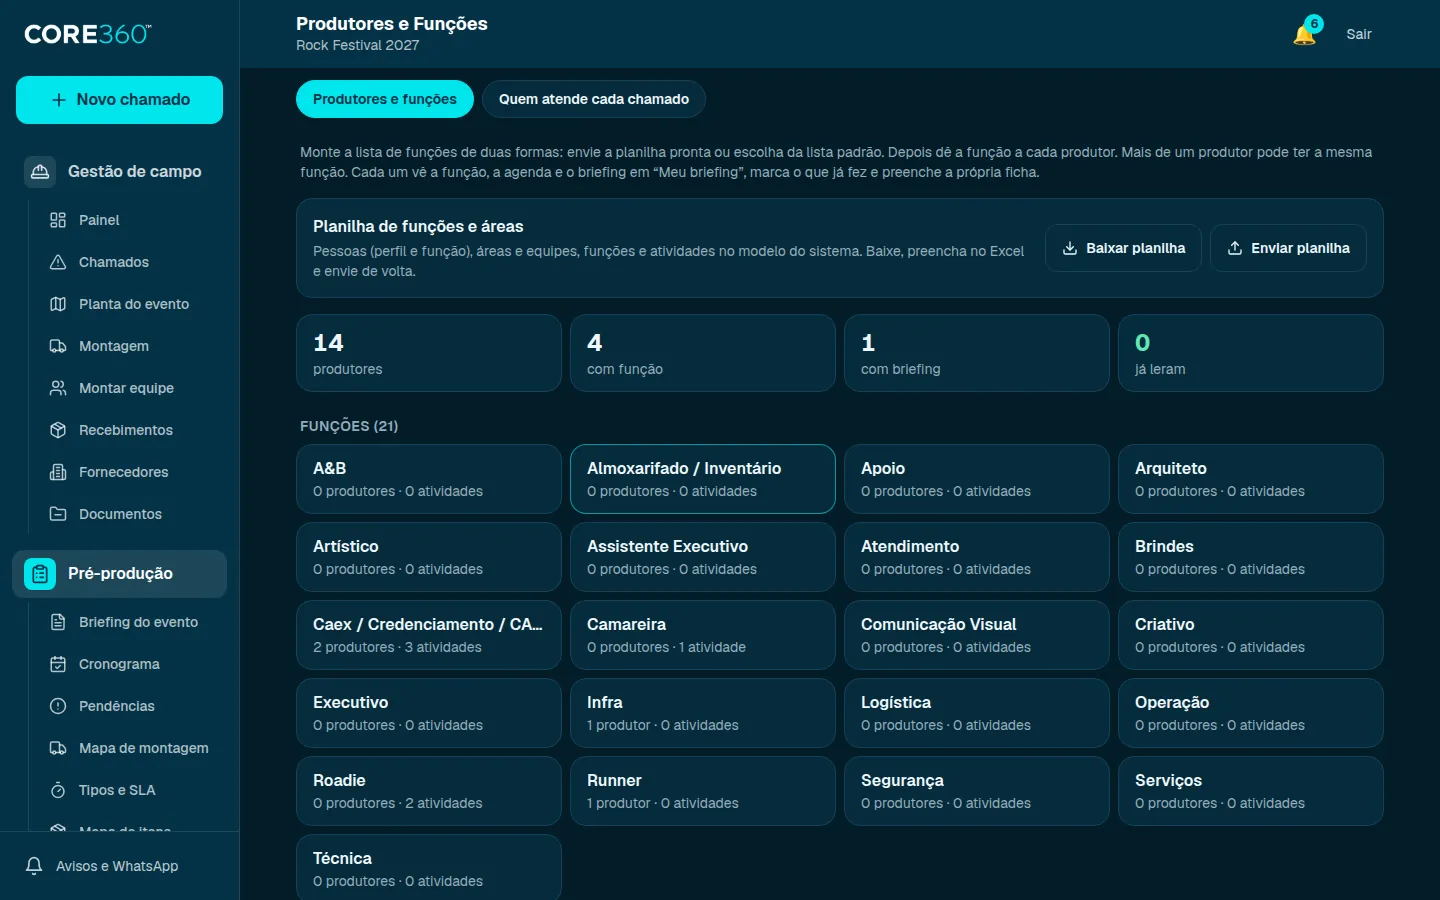
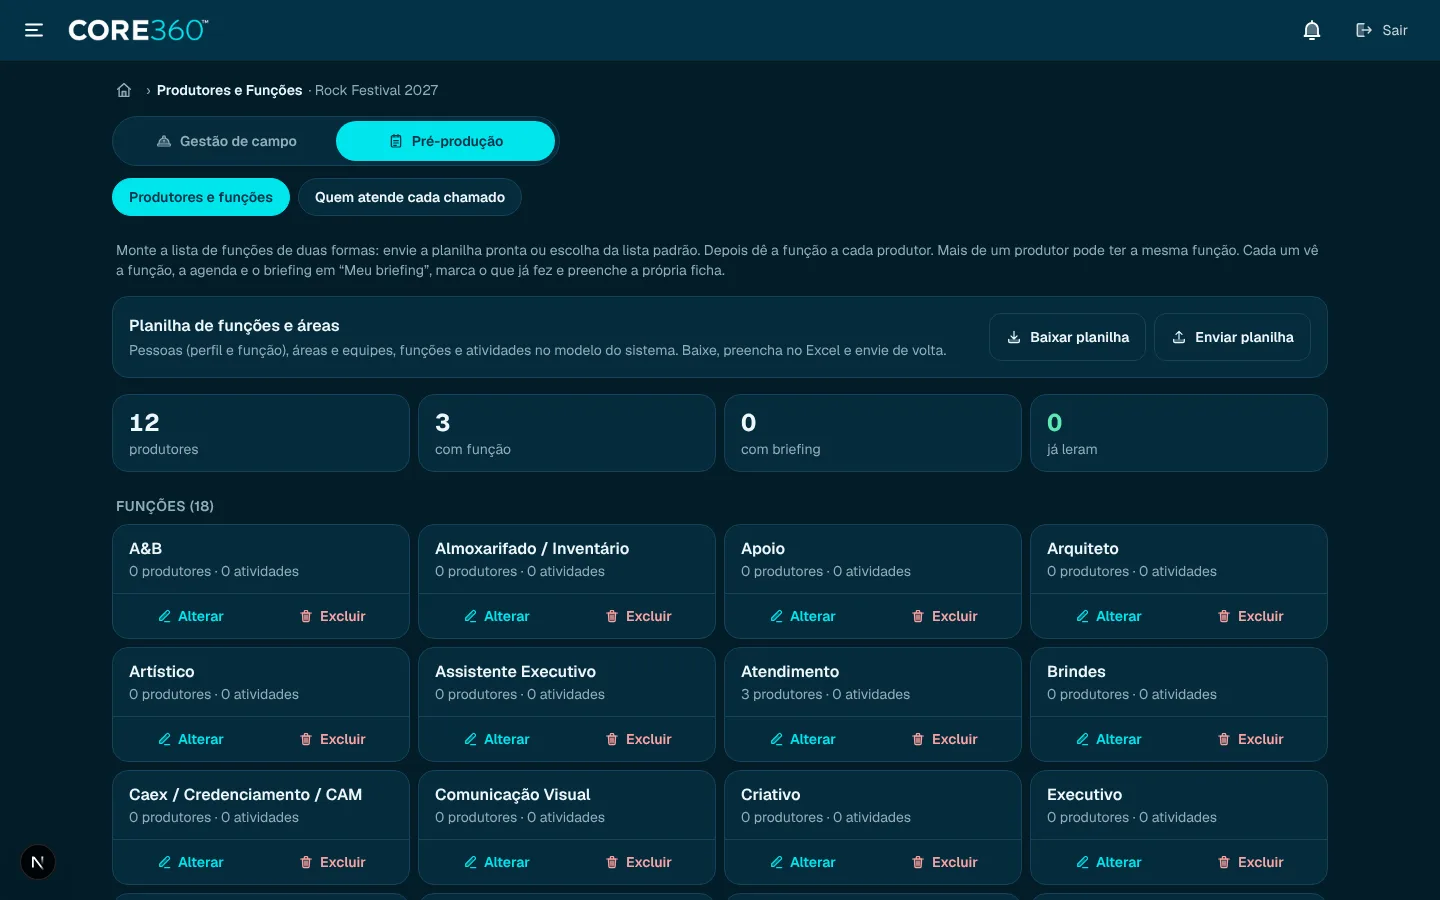
Produtores e Funções: diretor altera e exclui função direto no painel
Cada cartão de função ganha Alterar (nome e descrição) e Excluir, só para o
diretor de produção. Excluir confirma antes quantos produtores ficam sem
função e quantas atividades são apagadas. Mudar o nome e excluir passam a
ser só do diretor também no banco (trigger e RLS). Site: novo passo e foto.

Claude-Session: https://claude.ai/code/session_019hKBDssvruSjrLdd2Aqtom

diff --git a/src/app/(app)/eventos/[eventId]/pre-producao/funcoes/forms.tsx b/src/app/(app)/eventos/[eventId]/pre-producao/funcoes/forms.tsx
@@ -5,6 +5,7 @@ import { useRouter } from "next/navigation";
 import { Button, Card, cx } from "@/components/ui";
 import { FormError, Input, Label, Textarea } from "@/components/field";
 import { api } from "@/components/api-client";
+import { Icon } from "@/components/icons";
 
 function useAction() {
   const router = useRouter();
@@ -145,8 +146,116 @@ export function FunctionSelect({
   );
 }
 
-/** Nome e descrição da função, e apagar. */
-export function FunctionEditor({ fn, back }: { fn: { id: string; name: string; description: string | null }; back: string }) {
+function Dialog({ label, onClose, children }: { label: string; onClose: () => void; children: React.ReactNode }) {
+  return (
+    <div
+      className="fixed inset-0 z-40 flex items-end justify-center bg-black/60 p-4 sm:items-center"
+      role="dialog"
+      aria-modal
+      aria-label={label}
+      onClick={(e) => e.target === e.currentTarget && onClose()}
+      onKeyDown={(e) => e.key === "Escape" && onClose()}
+    >
+      <Card className="w-full max-w-lg">{children}</Card>
+    </div>
+  );
+}
+
+type PanelFunction = { id: string; name: string; description: string | null; peopleCount: number; activityCount: number };
+
+const plural = (n: number, one: string, many: string) => `${n} ${n === 1 ? one : many}`;
+
+/**
+ * Botões do diretor de produção em cada função do painel: alterar (nome e
+ * descrição) e excluir. Excluir apaga as atividades da função e deixa sem
+ * função quem tinha; a confirmação diz quantos são antes.
+ */
+export function FunctionActions({ fn }: { fn: PanelFunction }) {
+  const { busy, error, run } = useAction();
+  const [open, setOpen] = useState<"edit" | "delete" | null>(null);
+  const close = () => !busy && setOpen(null);
+  const small = "inline-flex min-h-9 items-center justify-center gap-1.5 rounded-lg px-1 text-sm font-semibold transition hover:bg-white/5";
+
+  return (
+    <>
+      <div className="grid grid-cols-2 gap-1">
+        <button type="button" className={cx(small, "text-primary")} onClick={() => setOpen("edit")} aria-label={`Alterar a função ${fn.name}`}>
+          <Icon name="edit" className="h-4 w-4" /> Alterar
+        </button>
+        <button type="button" className={cx(small, "text-red-300")} onClick={() => setOpen("delete")} aria-label={`Excluir a função ${fn.name}`}>
+          <Icon name="trash" className="h-4 w-4" /> Excluir
+        </button>
+      </div>
+
+      {open === "edit" && (
+        <Dialog label={`Alterar a função ${fn.name}`} onClose={close}>
+          <form
+            className="space-y-3"
+            onSubmit={async (e) => {
+              e.preventDefault();
+              const f = new FormData(e.currentTarget);
+              const ok = await run(() =>
+                api(`/api/functions/${fn.id}`, { method: "PATCH", body: { name: String(f.get("name") ?? ""), description: String(f.get("description") ?? "") } }),
+              );
+              if (ok) setOpen(null);
+            }}
+          >
+            <p className="font-semibold">Alterar função</p>
+            <label className="block">
+              <Label>Nome da função</Label>
+              <Input name="name" required maxLength={80} defaultValue={fn.name} autoFocus />
+            </label>
+            <label className="block">
+              <Label hint="(aparece para quem tem a função)">O que essa função faz</Label>
+              <Textarea name="description" maxLength={2000} defaultValue={fn.description ?? ""} />
+            </label>
+            {fn.peopleCount > 0 && (
+              <p className="text-sm text-muted">{plural(fn.peopleCount, "produtor continua", "produtores continuam")} com a função, já com o nome novo.</p>
+            )}
+            <FormError message={error} />
+            <div className="flex gap-2">
+              <Button type="submit" disabled={busy}>{busy ? "Salvando…" : "Salvar"}</Button>
+              <Button type="button" variant="secondary" disabled={busy} onClick={close}>Cancelar</Button>
+            </div>
+          </form>
+        </Dialog>
+      )}
+
+      {open === "delete" && (
+        <Dialog label={`Excluir a função ${fn.name}`} onClose={close}>
+          <div className="space-y-3">
+            <p className="font-semibold">Excluir a função &ldquo;{fn.name}&rdquo;?</p>
+            {fn.peopleCount + fn.activityCount === 0 ? (
+              <p className="text-sm text-muted">Ninguém tem esta função e ela não tem atividades.</p>
+            ) : (
+              <ul className="list-disc space-y-1 pl-5 text-sm text-amber-200">
+                {fn.peopleCount > 0 && <li>{plural(fn.peopleCount, "produtor fica", "produtores ficam")} sem função. Dá para escolher outra depois, no painel.</li>}
+                {fn.activityCount > 0 && <li>{plural(fn.activityCount, "atividade da função é apagada", "atividades da função são apagadas")}.</li>}
+              </ul>
+            )}
+            <p className="text-sm text-muted">Não dá para desfazer. Se for só trocar o nome, use Alterar.</p>
+            <FormError message={error} />
+            <div className="flex gap-2">
+              <Button
+                className="bg-red-500 text-white hover:bg-red-400"
+                disabled={busy}
+                onClick={async () => {
+                  if (await run(() => api(`/api/functions/${fn.id}`, { method: "DELETE" }))) setOpen(null);
+                }}
+              >
+                {busy ? "Excluindo…" : "Excluir função"}
+              </Button>
+              <Button type="button" variant="secondary" disabled={busy} onClick={close}>Cancelar</Button>
+            </div>
+          </div>
+        </Dialog>
+      )}
+    </>
+  );
+}
+
+/** Nome e descrição da função; mudar o nome e apagar é só do diretor de produção. */
+export function FunctionEditor({ fn, back, director }: { fn: { id: string; name: string; description: string | null }; back: string; director: boolean }) {
   const { busy, error, run, router } = useAction();
   const [saved, setSaved] = useState(false);
   return (
@@ -156,15 +265,14 @@ export function FunctionEditor({ fn, back }: { fn: { id: string; name: string; d
         e.preventDefault();
         const f = new FormData(e.currentTarget);
         setSaved(false);
-        const ok = await run(() =>
-          api(`/api/functions/${fn.id}`, { method: "PATCH", body: { name: String(f.get("name") ?? ""), description: String(f.get("description") ?? "") } }),
-        );
+        const body = { description: String(f.get("description") ?? ""), ...(director ? { name: String(f.get("name") ?? "") } : {}) };
+        const ok = await run(() => api(`/api/functions/${fn.id}`, { method: "PATCH", body }));
         setSaved(ok);
       }}
     >
       <label className="block">
-        <Label>Nome da função</Label>
-        <Input name="name" required maxLength={80} defaultValue={fn.name} />
+        <Label hint={director ? undefined : "(só o diretor de produção muda)"}>Nome da função</Label>
+        <Input name="name" required maxLength={80} defaultValue={fn.name} disabled={!director} />
       </label>
       <label className="block">
         <Label hint="(aparece para quem tem a função)">O que essa função faz</Label>
@@ -174,19 +282,19 @@ export function FunctionEditor({ fn, back }: { fn: { id: string; name: string; d
       {saved && <p className="text-sm text-emerald-300">Salvo.</p>}
       <div className="flex flex-wrap gap-2">
         <Button type="submit" disabled={busy}>{busy ? "Salvando…" : "Salvar"}</Button>
-        <Button
+        {director && <Button
           type="button"
           variant="secondary"
           className="text-red-300"
           disabled={busy}
           onClick={async () => {
-            if (!confirm(`Apagar a função “${fn.name}” e as atividades dela? Quem tinha essa função fica sem função.`)) return;
+            if (!confirm(`Excluir a função “${fn.name}” e as atividades dela? Quem tinha essa função fica sem função.`)) return;
             const ok = await run(() => api(`/api/functions/${fn.id}`, { method: "DELETE" }));
             if (ok) router.push(back);
           }}
         >
-          Apagar função
-        </Button>
+          Excluir função
+        </Button>}
       </div>
     </form>
   );

diff --git a/src/app/(app)/eventos/[eventId]/pre-producao/funcoes/page.tsx b/src/app/(app)/eventos/[eventId]/pre-producao/funcoes/page.tsx
@@ -9,7 +9,7 @@ import { EventTabs } from "@/components/event-nav";
 import { BriefingPill } from "@/components/briefing-view";
 import { Card, EmptyState, PAGE, SectionTitle, cx } from "@/components/ui";
 import { ROLE_LABEL } from "@/lib/format";
-import { DefaultsPicker, FunctionSelect, NewFunctionForm } from "./forms";
+import { DefaultsPicker, FunctionActions, FunctionSelect, NewFunctionForm } from "./forms";
 import { SheetPanel } from "./sheet";
 import { ProducersTabs } from "./tabs";
 
@@ -86,16 +86,16 @@ export default async function FunctionsPanelPage({ params }: PageProps<"/eventos
         ) : (
           <div className="grid grid-cols-2 gap-2 lg:grid-cols-4">
             {panel.functions.map((f) => (
-              <Link
-                key={f.id}
-                href={`${base}/funcoes/${f.id}`}
-                className="block rounded-2xl border border-border bg-surface px-4 py-3 transition hover:border-primary/60 active:scale-[0.99]"
-              >
-                <p className="truncate font-semibold">{f.name}</p>
-                <p className="text-sm text-muted">
-                  {f.peopleCount} {f.peopleCount === 1 ? "produtor" : "produtores"} · {f.activityCount} {f.activityCount === 1 ? "atividade" : "atividades"}
-                </p>
-              </Link>
+              <div key={f.id} className="flex flex-col rounded-2xl border border-border bg-surface transition hover:border-primary/60">
+                <Link href={`${base}/funcoes/${f.id}`} className="block flex-1 px-4 py-3 active:scale-[0.99]">
+                  <p className="truncate font-semibold">{f.name}</p>
+                  <p className="text-sm text-muted">
+                    {f.peopleCount} {f.peopleCount === 1 ? "produtor" : "produtores"} · {f.activityCount} {f.activityCount === 1 ? "atividade" : "atividades"}
+                  </p>
+                </Link>
+                {/* Diretor de produção: alterar e excluir direto no painel. */}
+                {director && <div className="border-t border-border px-2 py-1"><FunctionActions fn={f} /></div>}
+              </div>
             ))}
           </div>
         )}

diff --git a/src/modules/functions/functions.service.ts b/src/modules/functions/functions.service.ts
@@ -38,6 +38,11 @@ function requireCustomFunction(actor: Actor, eventId: string, name: string | und
   }
 }
 
+/** Mudar o nome ou excluir uma função: só o diretor de produção (a RLS confere de novo). */
+function requireDirector(actor: Actor, eventId: string, what: string) {
+  if (!canReviewSla(actor, eventId)) throw new ForbiddenError(`Só o diretor de produção ${what}.`);
+}
+
 const FIELD_ROLES = ["GERENTE", "HEAD", "OPERACIONAL"] as const;
 const PROFILE_FIELDS = ["document", "uniformSize", "dietary", "emergencyName", "emergencyPhone"] as const;
 
@@ -242,7 +247,7 @@ export async function getFunction(actor: Actor, functionId: string) {
 export async function updateFunction(actor: Actor, functionId: string, input: unknown) {
   const f = await loadFunction(actor, functionId);
   const data = parse(functionSchema.partial(), input);
-  if (data.name !== undefined && data.name !== f.name) requireCustomFunction(actor, f.eventId, data.name);
+  if (data.name !== undefined && data.name !== f.name) requireDirector(actor, f.eventId, "muda o nome de uma função");
   try {
     return await actor.run(async (tx) => {
       const saved = await tx.eventFunction.update({ where: { id: f.id }, data, select: { id: true, name: true, description: true } });
@@ -257,9 +262,10 @@ export async function updateFunction(actor: Actor, functionId: string, input: un
   }
 }
 
-/** Apaga a função e as atividades dela; quem tinha fica sem função. */
+/** Apaga a função e as atividades dela; quem tinha fica sem função. Só o diretor. */
 export async function deleteFunction(actor: Actor, functionId: string) {
   const f = await loadFunction(actor, functionId);
+  requireDirector(actor, f.eventId, "exclui uma função");
   return actor.run(async (tx) => {
     const { count } = await tx.participantProfile.updateMany({ where: { eventId: f.eventId, functionId: f.id }, data: { functionId: null } });
     await tx.eventFunction.delete({ where: { id: f.id } });

diff --git a/tests/preproducao/functions.test.ts b/tests/preproducao/functions.test.ts
@@ -77,6 +77,26 @@ describe("funções do evento", () => {
     await deleteFunction(marina, f.id);
   });
 
+  it("alterar o nome e excluir uma função é só do diretor de produção", async () => {
+    const sofia = await actorFor(db, "sofia");
+    const marina = await actorFor(db, "marina");
+    const f = (await createFunction(marina, rock, { name: `Palco ${uniq()}` }))!;
+    // A Pré-produtora não renomeia nem para um nome da lista, e não exclui.
+    await expectStatus(updateFunction(sofia, f.id, { name: DEFAULT_FUNCTIONS[0] }), 403);
+    await expectStatus(deleteFunction(sofia, f.id), 403);
+    await expectPgError(as("sofia", (tx) => tx.eventFunction.update({ where: { id: f.id }, data: { name: `Outro ${uniq()}` } })), "42501");
+    expect(await as("sofia", (tx) => tx.eventFunction.deleteMany({ where: { id: f.id } }))).toEqual({ count: 0 });
+    // O diretor altera e exclui; quem tinha a função fica sem função.
+    const novo = `Palco principal ${uniq()}`;
+    expect(await updateFunction(marina, f.id, { name: novo })).toMatchObject({ name: novo });
+    const before = (await owner.participantProfile.findUnique({ where: { participantId: P.joao.id } }))?.functionId ?? null;
+    await setFunctionPeople(marina, f.id, { participantIds: [P.joao.id] });
+    await deleteFunction(marina, f.id);
+    expect(await owner.eventFunction.count({ where: { id: f.id } })).toBe(0);
+    expect((await owner.participantProfile.findUnique({ where: { participantId: P.joao.id } }))?.functionId).toBeNull();
+    if (before) await owner.participantProfile.update({ where: { participantId: P.joao.id }, data: { functionId: before } });
+  });
+
   it("click and build: cria só as funções marcadas da lista padrão", async () => {
     const paulo = await actorFor(db, "paulo");
     const picked = [DEFAULT_FUNCTIONS[0], DEFAULT_FUNCTIONS[3]];

diff --git a/src/app/(app)/eventos/[eventId]/pre-producao/funcoes/[functionId]/page.tsx b/src/app/(app)/eventos/[eventId]/pre-producao/funcoes/[functionId]/page.tsx
@@ -1,6 +1,6 @@
 import { notFound } from "next/navigation";
 import { requireUser } from "@/server/http/session";
-import { canUseField, canUsePreProduction } from "@/server/authz/policy";
+import { canReviewSla, canUseField, canUsePreProduction } from "@/server/authz/policy";
 import { getEvent } from "@/modules/events/events.service";
 import { getFunction } from "@/modules/functions/functions.service";
 import { TopBar } from "@/components/top-bar";
@@ -30,7 +30,7 @@ export default async function FunctionPage({ params }: PageProps<"/eventos/[even
         <div className="grid gap-4 lg:grid-cols-2 lg:items-start">
           <div>
             <SectionTitle>Função</SectionTitle>
-            <Card><FunctionEditor fn={fn} back={back} /></Card>
+            <Card><FunctionEditor fn={fn} back={back} director={canReviewSla(actor, eventId)} /></Card>
           </div>
           <div>
             <SectionTitle>Atividades ({fn.activities.length})</SectionTitle>

diff --git a/src/components/icons.tsx b/src/components/icons.tsx
@@ -153,6 +153,15 @@ const PATHS = {
       <path d="M13 20.5h7.5" />
     </>
   ),
+  // Excluir: lixeira com tampa.
+  trash: (
+    <>
+      <A d="M6.5 7.5h11l-.8 11.6a1.5 1.5 0 0 1-1.5 1.4H8.8a1.5 1.5 0 0 1-1.5-1.4z" />
+      <path d="M6.5 7.5h11l-.8 11.6a1.5 1.5 0 0 1-1.5 1.4H8.8a1.5 1.5 0 0 1-1.5-1.4z" />
+      <path d="M4 7.5h16M9.5 7.5V5a1 1 0 0 1 1-1h3a1 1 0 0 1 1 1v2.5" />
+      <path d="M10.5 11v6M13.5 11v6" />
+    </>
+  ),
   menu: <path d="M4 6.5h16M4 12h11M4 17.5h16" />,
   close: <path d="M6 6l12 12M18 6 6 18" />,
   // Mapa de itens: caixas empilhadas.

diff --git a/tests/preproducao/head-functions.test.ts b/tests/preproducao/head-functions.test.ts
@@ -34,9 +34,9 @@ beforeAll(async () => {
 });
 
 afterAll(async () => {
-  const sofia = await actorFor(db, "sofia");
-  await deleteFunction(sofia, fnA);
-  await deleteFunction(sofia, fnB);
+  const marina = await actorFor(db, "marina");
+  await deleteFunction(marina, fnA);
+  await deleteFunction(marina, fnB);
   for (const b of before) await owner.participantProfile.update({ where: { participantId: b.participantId }, data: { functionId: b.functionId } });
   await Promise.all([db.$disconnect(), owner.$disconnect()]);
 });

diff --git a/src/components/site.tsx b/src/components/site.tsx
@@ -161,6 +161,7 @@ export const TOOLS: Tool[] = [
     passos: [
       "Abra Produtores e Funções.",
       "Monte por planilha ou clicando: escolha as pessoas e as funções de cada uma.",
+      "O diretor altera ou exclui uma função direto no cartão dela.",
       "Pronto: todos consultam quem faz o quê.",
     ],
     img: "/site/produtores.webp", alt: "Página Produtores e Funções no computador",
